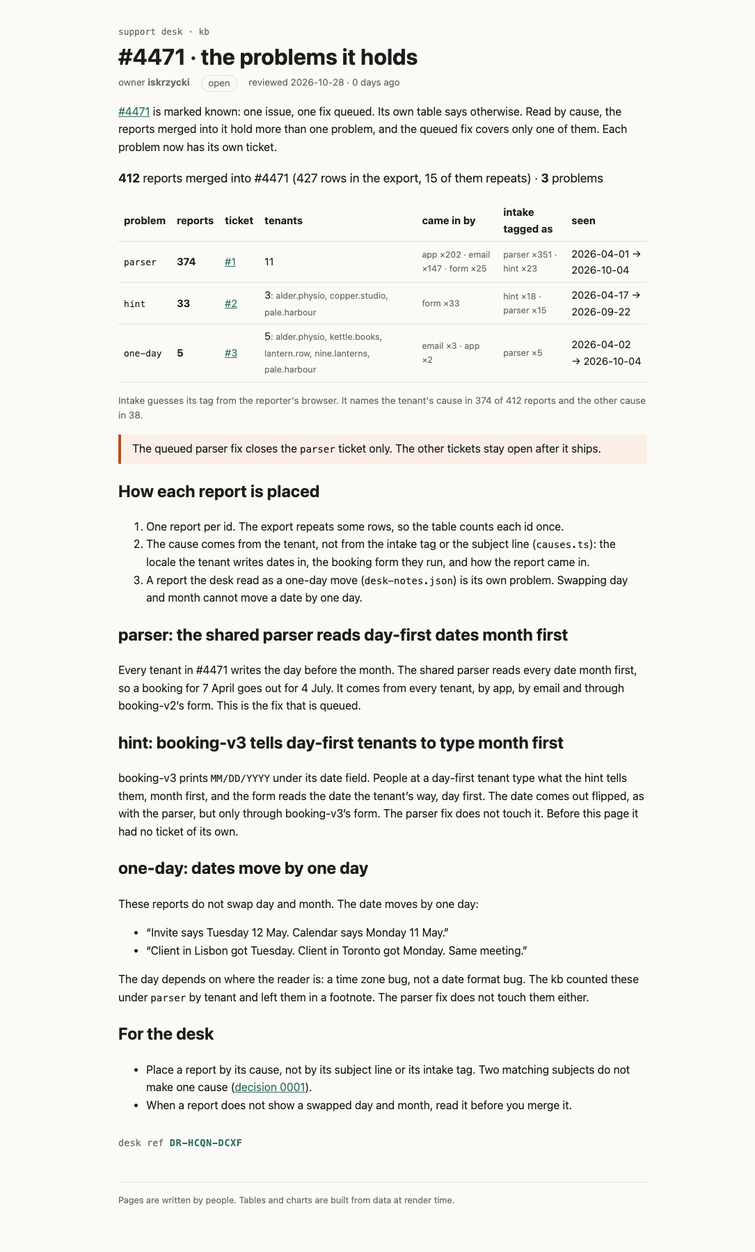
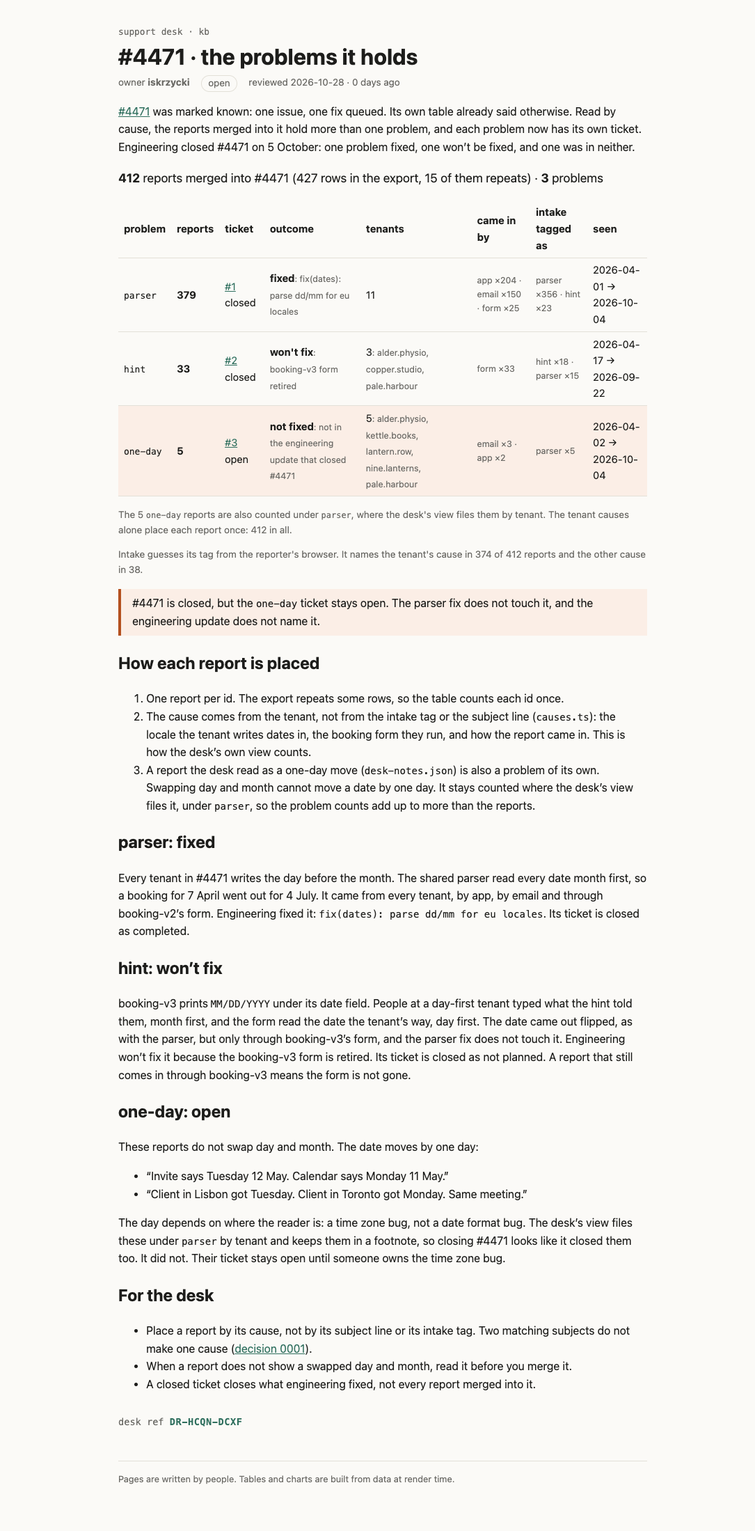
Page: record #4471 engineering update (parser fixed, hint won't fix, one-day open); count parser as the desk's view does

Changed region(s): [[0.1521, 0.0, 0.8516, 0.9655], [0.5475, 0.9344, 0.5779, 0.9655]]

diff --git a/rendered/site/kb/incidents/4471/problems.html b/rendered/site/kb/incidents/4471/problems.html
@@ -9,11 +9,11 @@
 		<link href="../../../_app/immutable/chunks/BHEAtpxo.js" rel="modulepreload">
 		<link href="../../../_app/immutable/chunks/D2KTpw2n.js" rel="modulepreload">
 		<link href="../../../_app/immutable/chunks/BDBbYZz3.js" rel="modulepreload">
-		<link href="../../../_app/immutable/entry/app.2-kQWidf.js" rel="modulepreload">
+		<link href="../../../_app/immutable/entry/app.CvaHQHWt.js" rel="modulepreload">
 		<link href="../../../_app/immutable/nodes/0.Bu7chxKa.js" rel="modulepreload">
 		<link href="../../../_app/immutable/chunks/DK3Fl9T5.js" rel="modulepreload">
-		<link href="../../../_app/immutable/nodes/5.CzPWl48r.js" rel="modulepreload">
-		<link href="../../../_app/immutable/chunks/Cc0vAHrV.js" rel="modulepreload">
+		<link href="../../../_app/immutable/nodes/5.BOi7qfjM.js" rel="modulepreload">
+		<link href="../../../_app/immutable/chunks/CKfAqplo.js" rel="modulepreload">
 		<link href="../../../_app/immutable/chunks/BcLXy0st.js" rel="modulepreload">
 		<link href="../../../_app/immutable/chunks/CVBzP17p.js" rel="modulepreload">
 		<link href="../../../_app/immutable/chunks/Drs7xK2k.js" rel="modulepreload">
@@ -23,35 +23,41 @@
 		<link href="../../../_app/immutable/assets/_page.CZ3SO81t.css" rel="stylesheet">
   </head>
   <body data-sveltekit-preload-data="hover">
-    <div style="display: contents"><!--[--><!--[--><!--[0--><!--[--><!--[--><!--[-1--><!--[--><div class="kb svelte-e2jw2j"><header><a class="crumb svelte-e2jw2j" href="/kb">support desk · kb</a> <h1 class="svelte-e2jw2j">#4471 · the problems it holds</h1> <p class="meta svelte-e2jw2j"><span>owner <b>iskrzycki</b></span> <span class="status open svelte-e2jw2j">open</span> <span class="svelte-e2jw2j">reviewed 2026-10-28 · 0 days ago</span></p></header> <!--[-1--><!--]--> <main><p><a href="/kb/incidents/4471">#4471</a> is marked known: one issue, one fix queued. Its own table says
-otherwise. Read by cause, the reports merged into it hold more than one problem, and the queued
-fix covers only one of them. Each problem now has its own ticket.</p> <p class="sum svelte-1op6c6"><strong>412</strong> reports merged into #4471
-  (427 rows in the export, 15 of them repeats) · <strong>3</strong> problems</p> <table><thead><tr><th>problem</th><th>reports</th><th>ticket</th><th>tenants</th><th>came in by</th><th>intake tagged as</th><th>seen</th></tr></thead><tbody><!--[--><tr class="svelte-1op6c6"><td class="svelte-1op6c6"><code>parser</code></td><td class="svelte-1op6c6"><strong>374</strong></td><td class="svelte-1op6c6"><!--[0--><a href="https://github.com/iskrzycki/mega-what-it-shows/issues/1">#1</a><!--]--></td><td class="svelte-1op6c6">11<!--[-1--><!--]--></td><td class="tags svelte-1op6c6">app ×202 · email ×147 · form ×25</td><td class="tags svelte-1op6c6">parser ×351 · hint ×23</td><td class="svelte-1op6c6">2026-04-01 → 2026-10-04</td></tr><tr class="svelte-1op6c6"><td class="svelte-1op6c6"><code>hint</code></td><td class="svelte-1op6c6"><strong>33</strong></td><td class="svelte-1op6c6"><!--[0--><a href="https://github.com/iskrzycki/mega-what-it-shows/issues/2">#2</a><!--]--></td><td class="svelte-1op6c6">3<!--[0--><span class="tags svelte-1op6c6">: alder.physio, copper.studio, pale.harbour</span><!--]--></td><td class="tags svelte-1op6c6">form ×33</td><td class="tags svelte-1op6c6">hint ×18 · parser ×15</td><td class="svelte-1op6c6">2026-04-17 → 2026-09-22</td></tr><tr class="svelte-1op6c6"><td class="svelte-1op6c6"><code>one-day</code></td><td class="svelte-1op6c6"><strong>5</strong></td><td class="svelte-1op6c6"><!--[0--><a href="https://github.com/iskrzycki/mega-what-it-shows/issues/3">#3</a><!--]--></td><td class="svelte-1op6c6">5<!--[0--><span class="tags svelte-1op6c6">: alder.physio, kettle.books, lantern.row, nine.lanterns, pale.harbour</span><!--]--></td><td class="tags svelte-1op6c6">email ×3 · app ×2</td><td class="tags svelte-1op6c6">parser ×5</td><td class="svelte-1op6c6">2026-04-02 → 2026-10-04</td></tr><!--]--></tbody></table> <p class="note svelte-1op6c6">Intake guesses its tag from the reporter's browser. It names the tenant's cause in 374 of
-  412 reports and the other cause in 38.</p><!----> <aside class="warn svelte-17bri61"><!---->The queued parser fix closes the <code>parser</code> ticket only. The other tickets stay open after it ships.<!----></aside><!----> <h2>How each report is placed</h2> <ol><li>One report per id. The export repeats some rows, so the table counts each id once.</li> <li>The cause comes from the tenant, not from the intake tag or the subject line
+    <div style="display: contents"><!--[--><!--[--><!--[0--><!--[--><!--[--><!--[-1--><!--[--><div class="kb svelte-e2jw2j"><header><a class="crumb svelte-e2jw2j" href="/kb">support desk · kb</a> <h1 class="svelte-e2jw2j">#4471 · the problems it holds</h1> <p class="meta svelte-e2jw2j"><span>owner <b>iskrzycki</b></span> <span class="status open svelte-e2jw2j">open</span> <span class="svelte-e2jw2j">reviewed 2026-10-28 · 0 days ago</span></p></header> <!--[-1--><!--]--> <main><p><a href="/kb/incidents/4471">#4471</a> was marked known: one issue, one fix queued. Its own table already
+said otherwise. Read by cause, the reports merged into it hold more than one problem, and each
+problem now has its own ticket. Engineering closed #4471 on 5 October: one problem fixed, one won’t
+be fixed, and one was in neither.</p> <p class="sum svelte-1op6c6"><strong>412</strong> reports merged into #4471
+  (427 rows in the export, 15 of them repeats) · <strong>3</strong> problems</p> <table><thead><tr><th>problem</th><th>reports</th><th>ticket</th><th>outcome</th><th>tenants</th><th>came in by</th><th>intake tagged as</th><th>seen</th></tr></thead><tbody><!--[--><tr class="svelte-1op6c6"><td class="svelte-1op6c6"><code>parser</code></td><td class="svelte-1op6c6"><strong>379</strong></td><td class="svelte-1op6c6"><!--[0--><a href="https://github.com/iskrzycki/mega-what-it-shows/issues/1">#1</a> closed<!--]--></td><td class="svelte-1op6c6"><!--[0--><b>fixed</b><span class="tags svelte-1op6c6">: fix(dates): parse dd/mm for eu locales</span><!--]--></td><td class="svelte-1op6c6">11<!--[-1--><!--]--></td><td class="tags svelte-1op6c6">app ×204 · email ×150 · form ×25</td><td class="tags svelte-1op6c6">parser ×356 · hint ×23</td><td class="svelte-1op6c6">2026-04-01 → 2026-10-04</td></tr><tr class="svelte-1op6c6"><td class="svelte-1op6c6"><code>hint</code></td><td class="svelte-1op6c6"><strong>33</strong></td><td class="svelte-1op6c6"><!--[0--><a href="https://github.com/iskrzycki/mega-what-it-shows/issues/2">#2</a> closed<!--]--></td><td class="svelte-1op6c6"><!--[0--><b>won't fix</b><span class="tags svelte-1op6c6">: booking-v3 form retired</span><!--]--></td><td class="svelte-1op6c6">3<!--[0--><span class="tags svelte-1op6c6">: alder.physio, copper.studio, pale.harbour</span><!--]--></td><td class="tags svelte-1op6c6">form ×33</td><td class="tags svelte-1op6c6">hint ×18 · parser ×15</td><td class="svelte-1op6c6">2026-04-17 → 2026-09-22</td></tr><tr class="svelte-1op6c6 open"><td class="svelte-1op6c6"><code>one-day</code></td><td class="svelte-1op6c6"><strong>5</strong></td><td class="svelte-1op6c6"><!--[0--><a href="https://github.com/iskrzycki/mega-what-it-shows/issues/3">#3</a> open<!--]--></td><td class="svelte-1op6c6"><!--[0--><b>not fixed</b><span class="tags svelte-1op6c6">: not in the engineering update that closed #4471</span><!--]--></td><td class="svelte-1op6c6">5<!--[0--><span class="tags svelte-1op6c6">: alder.physio, kettle.books, lantern.row, nine.lanterns, pale.harbour</span><!--]--></td><td class="tags svelte-1op6c6">email ×3 · app ×2</td><td class="tags svelte-1op6c6">parser ×5</td><td class="svelte-1op6c6">2026-04-02 → 2026-10-04</td></tr><!--]--></tbody></table> <!--[--><!--[-1--><!--]--><!--[-1--><!--]--><!--[0--><p class="note svelte-1op6c6">The 5 <code>one-day</code> reports are also counted under <code>parser</code>, where the desk's view files them by tenant. The tenant
+      causes alone place each report once: 412 in all.</p><!--]--><!--]--> <p class="note svelte-1op6c6">Intake guesses its tag from the reporter's browser. It names the tenant's cause in 374 of
+  412 reports and the other cause in 38.</p><!----> <aside class="warn svelte-17bri61"><!---->#4471 is closed, but the <code>one-day</code> ticket stays open. The parser fix does not touch it,
+and the engineering update does not name it.<!----></aside><!----> <h2>How each report is placed</h2> <ol><li>One report per id. The export repeats some rows, so the table counts each id once.</li> <li>The cause comes from the tenant, not from the intake tag or the subject line
 (<code>causes.ts</code>): the locale the tenant writes dates in, the booking form they run, and how the
-report came in.</li> <li>A report the desk read as a one-day move (<code>desk-notes.json</code>) is its own problem. Swapping day
-and month cannot move a date by one day.</li></ol> <h2>parser: the shared parser reads day-first dates month first</h2> <p>Every tenant in #4471 writes the day before the month. The shared parser reads every date month
-first, so a booking for 7 April goes out for 4 July. It comes from every tenant, by app, by email
-and through booking-v2’s form. This is the fix that is queued.</p> <h2>hint: booking-v3 tells day-first tenants to type month first</h2> <p>booking-v3 prints <code>MM/DD/YYYY</code> under its date field. People at a day-first tenant type what the
-hint tells them, month first, and the form reads the date the tenant’s way, day first. The date
-comes out flipped, as with the parser, but only through booking-v3’s form. The parser fix does not
-touch it. Before this page it had no ticket of its own.</p> <h2>one-day: dates move by one day</h2> <p>These reports do not swap day and month. The date moves by one day:</p> <ul><li>“Invite says Tuesday 12 May. Calendar says Monday 11 May.”</li> <li>“Client in Lisbon got Tuesday. Client in Toronto got Monday. Same meeting.”</li></ul> <p>The day depends on where the reader is: a time zone bug, not a date format bug. The kb counted
-these under <code>parser</code> by tenant and left them in a footnote. The parser fix does not touch them
-either.</p> <h2>For the desk</h2> <ul><li>Place a report by its cause, not by its subject line or its intake tag. Two matching subjects
-do not make one cause (<a href="/kb/decisions/0001-dedupe-by-subject">decision 0001</a>).</li> <li>When a report does not show a swapped day and month, read it before you merge it.</li></ul> <!--[0--><p class="stamp svelte-1280m42">desk ref <b class="svelte-1280m42">DR-HCQN-DCXF</b></p><!--]--><!----><!----></main> <footer class="svelte-e2jw2j">Pages are written by people. Tables and charts are built from data at render time.</footer></div><!--]--><!--]--><!--]--><!----><!--]--><!--]--><!--]--><!----> <!--[-1--><!--]--><!--]-->
+report came in. This is how the desk’s own view counts.</li> <li>A report the desk read as a one-day move (<code>desk-notes.json</code>) is also a problem of its own.
+Swapping day and month cannot move a date by one day. It stays counted where the desk’s view
+files it, under <code>parser</code>, so the problem counts add up to more than the reports.</li></ol> <h2>parser: fixed</h2> <p>Every tenant in #4471 writes the day before the month. The shared parser read every date month
+first, so a booking for 7 April went out for 4 July. It came from every tenant, by app, by email
+and through booking-v2’s form. Engineering fixed it: <code>fix(dates): parse dd/mm for eu locales</code>.
+Its ticket is closed as completed.</p> <h2>hint: won’t fix</h2> <p>booking-v3 prints <code>MM/DD/YYYY</code> under its date field. People at a day-first tenant typed what the
+hint told them, month first, and the form read the date the tenant’s way, day first. The date came
+out flipped, as with the parser, but only through booking-v3’s form, and the parser fix does not
+touch it. Engineering won’t fix it because the booking-v3 form is retired. Its ticket is closed as
+not planned. A report that still comes in through booking-v3 means the form is not gone.</p> <h2>one-day: open</h2> <p>These reports do not swap day and month. The date moves by one day:</p> <ul><li>“Invite says Tuesday 12 May. Calendar says Monday 11 May.”</li> <li>“Client in Lisbon got Tuesday. Client in Toronto got Monday. Same meeting.”</li></ul> <p>The day depends on where the reader is: a time zone bug, not a date format bug. The desk’s view
+files these under <code>parser</code> by tenant and keeps them in a footnote, so closing #4471 looks like it
+closed them too. It did not. Their ticket stays open until someone owns the time zone bug.</p> <h2>For the desk</h2> <ul><li>Place a report by its cause, not by its subject line or its intake tag. Two matching subjects
+do not make one cause (<a href="/kb/decisions/0001-dedupe-by-subject">decision 0001</a>).</li> <li>When a report does not show a swapped day and month, read it before you merge it.</li> <li>A closed ticket closes what engineering fixed, not every report merged into it.</li></ul> <!--[0--><p class="stamp svelte-1280m42">desk ref <b class="svelte-1280m42">DR-HCQN-DCXF</b></p><!--]--><!----><!----></main> <footer class="svelte-e2jw2j">Pages are written by people. Tables and charts are built from data at render time.</footer></div><!--]--><!--]--><!--]--><!----><!--]--><!--]--><!--]--><!----> <!--[-1--><!--]--><!--]-->
 			
 			<script>
 				{
-					__sveltekit_1ypzlkl = {
+					__sveltekit_ex8h6h = {
 						base: new URL("../../..", location).pathname.slice(0, -1),
-						version: "1793201321834"
+						version: "1793201560404"
 					};
 
 					const element = document.currentScript.parentElement;
 
 					import("../../../_app/immutable/entry/start.D_uPDhA5.js").then(async (kit) => {
-						kit.init(__sveltekit_1ypzlkl);
-						const app = await import("../../../_app/immutable/entry/app.2-kQWidf.js");
+						kit.init(__sveltekit_ex8h6h);
+						const app = await import("../../../_app/immutable/entry/app.CvaHQHWt.js");
 						kit.start(app, element, {
 							node_ids: [0, 5],
 							data: [null,null],

diff --git a/rendered/site/_app/immutable/chunks/CKfAqplo.js b/rendered/site/_app/immutable/chunks/CKfAqplo.js
@@ -1,0 +1,22 @@
+import{t as e}from"./DK3Fl9T5.js";import{E as t,F as n,H as r,I as i,K as a,L as o,N as s,O as c,R as l,S as u,T as d,U as f,W as p,_ as m,c as h,d as g,h as _,k as v,q as y,r as b,t as x,w as S}from"./D2KTpw2n.js";import{t as C}from"./BcLXy0st.js";import{n as w,t as T}from"./CVBzP17p.js";import{a as E,l as D,r as O,t as k}from"./Drs7xK2k.js";var A={parser:{issue:1,url:`https://github.com/iskrzycki/mega-what-it-shows/issues/1`,title:`Shared date parser reads day-first dates month first`,state:`closed`,outcome:`fixed`,why:`fix(dates): parse dd/mm for eu locales`},hint:{issue:2,url:`https://github.com/iskrzycki/mega-what-it-shows/issues/2`,title:`booking-v3 date hint tells day-first tenants to type month first`,state:`closed`,outcome:`won't fix`,why:`booking-v3 form retired`},"one-day":{issue:3,url:`https://github.com/iskrzycki/mega-what-it-shows/issues/3`,title:`Dates move by one day across time zones`,state:`open`,outcome:`not fixed`,why:`not in the engineering update that closed #4471`}},j=(e,t)=>e.reduce((e,n)=>({...e,[t(n)]:(e[t(n)]??0)+1}),{});function M(e,t,n){let r=t.map(e=>e.receivedAt.slice(0,10)).sort();return{problem:e,reports:t,tenants:[...new Set(t.map(e=>e.tenant))].sort(),channels:j(t,e=>e.channel),taggedAs:j(t,e=>e.meta.intakeTag),firstSeen:r[0],lastSeen:r[r.length-1],alsoUnder:n}}function N(e,t,n,r){let i=D(e).filter(e=>e.mergedInto===t),a=E(i,n),o=a.map(e=>M(e.cause,e.reports,null)),s=i.filter(e=>r.includes(e.id));if(s.length){let e=a.find(e=>e.reports.some(e=>r.includes(e.id)));o.push(M(`one-day`,s,e?{problem:e.cause,count:s.filter(t=>e.reports.includes(t)).length}:null))}return{rows:e.filter(e=>e.mergedInto===t).length,reports:i,groups:o}}function P(e){return e.filter(e=>e.problem===`parser`||e.problem===`hint`).reduce((e,t)=>e+t.reports.filter(e=>e.meta.intakeTag===t.problem).length,0)}var F=t(`<a> </a> `,1),I=t(`<b> </b><span class="tags svelte-1op6c6"> </span>`,1),L=t(`<span class="tags svelte-1op6c6"> </span>`),R=t(`<tr><td class="svelte-1op6c6"><code> </code></td><td class="svelte-1op6c6"><strong> </strong></td><td class="svelte-1op6c6"><!></td><td class="svelte-1op6c6"><!></td><td class="svelte-1op6c6"> <!></td><td class="tags svelte-1op6c6"> </td><td class="tags svelte-1op6c6"> </td><td class="svelte-1op6c6"> </td></tr>`),z=t(`<p class="note svelte-1op6c6"> <code> </code> reports are also counted under <code> </code> </p>`),B=t(`<p class="sum svelte-1op6c6"><strong> </strong> <strong> </strong> </p> <table><thead><tr><th>problem</th><th>reports</th><th>ticket</th><th>outcome</th><th>tenants</th><th>came in by</th><th>intake tagged as</th><th>seen</th></tr></thead><tbody></tbody></table> <!> <p class="note svelte-1op6c6"> </p>`,1);function V(e,t){p(t,!0);let a=A,b=e=>a[e],x=r(()=>N(w,t.ticket,O,T.oneDayMove)),C=r(()=>v(x).groups.filter(e=>e.problem!==`one-day`)),E=r(()=>P(v(x).groups)),D=e=>Object.entries(e).sort((e,t)=>t[1]-e[1]).map(([e,t])=>`${e} ×${t}`).join(` · `);var k=B(),j=i(k),M=n(j),V=o(M,!0),H=l(M),U=l(H),W=o(U,!0),G=l(U);y(j);var K=l(j,2),q=l(n(K));_(q,21,()=>v(x).groups,e=>e.problem,(e,t)=>{let a=r(()=>b(v(t).problem));var d=R();let f;var p=n(d),_=n(p),x=o(_,!0);y(p);var C=l(p),w=n(C),T=o(w,!0);y(C);var E=l(C),O=n(E),k=e=>{var t=F(),n=i(t),r=o(n),c=l(n);s(()=>{h(n,`href`,v(a).url),u(r,`#${v(a).issue??``}`),u(c,` ${v(a).state??``}`)}),S(e,t)},A=e=>{var t=c(`no ticket`);S(e,t)};m(O,e=>{v(a)?e(k):e(A,-1)}),y(E);var j=l(E),M=n(j),N=e=>{var t=I(),n=i(t),r=o(n,!0),c=l(n),d=o(c);s(()=>{u(r,v(a).outcome),u(d,`: ${v(a).why??``}`)}),S(e,t)};m(M,e=>{v(a)&&e(N)}),y(j);var P=l(j),z=n(P,!0),B=l(z),V=e=>{var n=L(),r=o(n);s(e=>u(r,`: ${e??``}`),[()=>v(t).tenants.join(`, `)]),S(e,n)};m(B,e=>{v(t).tenants.length<=5&&e(V)}),y(P);var H=l(P),U=o(H,!0),W=l(H),G=o(W,!0),K=l(W),q=o(K);y(d),s((e,n)=>{f=g(d,1,`svelte-1op6c6`,null,f,{open:!v(a)||v(a).state===`open`}),u(x,v(t).problem),u(T,v(t).reports.length),u(z,v(t).tenants.length),u(U,e),u(G,n),u(q,`${v(t).firstSeen??``} → ${v(t).lastSeen??``}`)},[()=>D(v(t).channels),()=>D(v(t).taggedAs)]),S(e,d)}),y(q),y(K);var J=l(K,2);_(J,17,()=>v(x).groups,e=>e.problem,(e,t)=>{var r=d(),a=i(r),c=e=>{var r=z(),i=n(r),a=l(i),c=o(a,!0),d=l(a,2),f=o(d,!0),p=l(d);y(r),s(e=>{u(i,`The ${v(t).alsoUnder.count??``} `),u(c,v(t).problem),u(f,v(t).alsoUnder.problem),u(p,`, where the desk's view files them by tenant. The tenant
+      causes alone place each report once: ${e??``} in all.`)},[()=>v(C).reduce((e,t)=>e+t.reports.length,0)]),S(e,r)};m(a,e=>{v(t).alsoUnder&&e(c)}),S(e,r)});var Y=l(J,2),X=o(Y);s(()=>{u(V,v(x).reports.length),u(H,` reports merged into #${t.ticket??``}
+  (${v(x).rows??``} rows in the export, ${v(x).rows-v(x).reports.length} of them repeats) · `),u(W,v(x).groups.length),u(G,` ${v(x).groups.length===1?`problem`:`problems`}`),u(X,`Intake guesses its tag from the reporter's browser. It names the tenant's cause in ${v(E)??``} of
+  ${v(x).reports.length??``} reports and the other cause in ${v(x).reports.length-v(E)}.`)}),S(e,k),f()}var H=`0123456789ABCDEFGHJKMNPQRSTVWXYZ`;function U(e,t){let n=t>>>0;for(let t=0;t<e.length;t++)n^=e.charCodeAt(t),n=Math.imul(n,16777619)>>>0;return n}function W(e){let t=e.trim(),n=U(t,2166136261),r=U(t,2654435769),i=BigInt(n)<<8n|BigInt(r&255),a=``;for(let e=0;e<8;e++)a=H[Number(i&31n)]+a,i>>=5n;return`DR-${a.slice(0,4)}-${a.slice(4)}`}var G=t(`<p class="stamp svelte-1280m42">desk ref <b class="svelte-1280m42"> </b></p>`),K=t(`<p class="stamp missing svelte-1280m42">no desk ref: this page isn't signed (no <code>signature</code> in its frontmatter)</p>`);function q(e,t){p(t,!0);let a=r(()=>t.signature?W(t.signature):null);var c=d(),h=i(c),g=e=>{var t=G(),r=l(n(t)),i=o(r,!0);y(t),s(()=>u(i,v(a))),S(e,t)},_=e=>{var t=K();S(e,t)};m(h,e=>{v(a)?e(g):e(_,-1)}),S(e,c),f()}var J=e({default:()=>$,metadata:()=>Y}),Y={layout:`runbook`,title:`#4471 · the problems it holds`,owner:`iskrzycki`,status:`open`,reviewed:`2026-10-28T00:00:00.000Z`,signature:`v1.eyJzdWIiOiI4NDMiLCJhdWQiOiJjaGFsbGVuZ2U6d2hhdC1pdC1zaG93cyIsImlhdCI6MTc5MzIwMDg4OSwiZXhwIjoxNzkzMjg3Mjg5fQ.42LSlo7EawwMmYYE4rN49h3hbpdTfEZljI92r_1JlFc`},{layout:X,title:ee,owner:te,status:ne,reviewed:re,signature:Z}=Y,Q=t(`#4471 is closed, but the <code>one-day</code> ticket stays open. The parser fix does not touch it,
+and the engineering update does not name it.`,1),ie=t(`<p><a href="/kb/incidents/4471">#4471</a> was marked known: one issue, one fix queued. Its own table already
+said otherwise. Read by cause, the reports merged into it hold more than one problem, and each
+problem now has its own ticket. Engineering closed #4471 on 5 October: one problem fixed, one won’t
+be fixed, and one was in neither.</p> <!> <!> <h2>How each report is placed</h2> <ol><li>One report per id. The export repeats some rows, so the table counts each id once.</li> <li>The cause comes from the tenant, not from the intake tag or the subject line
+(<code>causes.ts</code>): the locale the tenant writes dates in, the booking form they run, and how the
+report came in. This is how the desk’s own view counts.</li> <li>A report the desk read as a one-day move (<code>desk-notes.json</code>) is also a problem of its own.
+Swapping day and month cannot move a date by one day. It stays counted where the desk’s view
+files it, under <code>parser</code>, so the problem counts add up to more than the reports.</li></ol> <h2>parser: fixed</h2> <p>Every tenant in #4471 writes the day before the month. The shared parser read every date month
+first, so a booking for 7 April went out for 4 July. It came from every tenant, by app, by email
+and through booking-v2’s form. Engineering fixed it: <code>fix(dates): parse dd/mm for eu locales</code>.
+Its ticket is closed as completed.</p> <h2>hint: won’t fix</h2> <p>booking-v3 prints <code>MM/DD/YYYY</code> under its date field. People at a day-first tenant typed what the
+hint told them, month first, and the form read the date the tenant’s way, day first. The date came
+out flipped, as with the parser, but only through booking-v3’s form, and the parser fix does not
+touch it. Engineering won’t fix it because the booking-v3 form is retired. Its ticket is closed as
+not planned. A report that still comes in through booking-v3 means the form is not gone.</p> <h2>one-day: open</h2> <p>These reports do not swap day and month. The date moves by one day:</p> <ul><li>“Invite says Tuesday 12 May. Calendar says Monday 11 May.”</li> <li>“Client in Lisbon got Tuesday. Client in Toronto got Monday. Same meeting.”</li></ul> <p>The day depends on where the reader is: a time zone bug, not a date format bug. The desk’s view
+files these under <code>parser</code> by tenant and keeps them in a footnote, so closing #4471 looks like it
+closed them too. It did not. Their ticket stays open until someone owns the time zone bug.</p> <h2>For the desk</h2> <ul><li>Place a report by its cause, not by its subject line or its intake tag. Two matching subjects
+do not make one cause (<a href="/kb/decisions/0001-dedupe-by-subject">decision 0001</a>).</li> <li>When a report does not show a swapped day and month, read it before you merge it.</li> <li>A closed ticket closes what engineering fixed, not every report merged into it.</li></ul> <!>`,1);function $(e,t){let n=x(t,[`children`,`$$slots`,`$$events`,`$$legacy`]);C(e,b(()=>n,()=>Y,{children:(e,t)=>{var n=ie(),r=l(i(n),2);V(r,{ticket:4471});var o=l(r,2);k(o,{kind:`warn`,children:(e,t)=>{a();var n=Q();a(2),S(e,n)},$$slots:{default:!0}}),q(l(o,26),{get signature(){return Z}}),S(e,n)},$$slots:{default:!0}}))}export{$ as n,J as t};

diff --git a/src/lib/kb/problems.ts b/src/lib/kb/problems.ts
@@ -1,7 +1,8 @@
-// Splits a ticket into the problems its reports hold. causes.ts places a report by its tenant;
-// desk-notes.json lists the reports the desk read as a one-day move. A parser or a hint swaps day
-// and month; neither moves a date by one day, so those reports are a problem of their own here.
-import { causeOf, uniqueById, type Cause, type Report, type Tenant } from '#lib/kb/causes';
+// Splits a ticket into the problems its reports hold, counted the way the desk's own view counts
+// them: one report per id, placed by tenant (causes.ts). desk-notes.json lists the reports the desk
+// read as a one-day move. A parser or a hint swaps day and month; neither moves a date by one day,
+// so those reports are a problem of their own too. They stay counted where the desk files them.
+import { groupByCause, uniqueById, type Cause, type Report, type Tenant } from '#lib/kb/causes';
 
 export type Problem = Cause | 'one-day' | 'unplaced';
 
@@ -15,15 +16,26 @@ export type ProblemGroup = {
   taggedAs: Record<string, number>;
   firstSeen: string;
   lastSeen: string;
+  // Of these reports, how many the desk's view files under another problem.
+  alsoUnder: { problem: Problem; count: number } | null;
 };
-
-export function problemOf(r: Report, t: Tenant | undefined, oneDayMove: readonly string[]): Problem {
-  if (oneDayMove.includes(r.id)) return 'one-day';
-  return causeOf(r, t) ?? 'unplaced';
-}
 
 const tally = (rs: Report[], key: (r: Report) => string) =>
   rs.reduce<Record<string, number>>((n, r) => ({ ...n, [key(r)]: (n[key(r)] ?? 0) + 1 }), {});
+
+function group(problem: Problem, rs: Report[], alsoUnder: ProblemGroup['alsoUnder']): ProblemGroup {
+  const days = rs.map((r) => r.receivedAt.slice(0, 10)).sort();
+  return {
+    problem,
+    reports: rs,
+    tenants: [...new Set(rs.map((r) => r.tenant))].sort(),
+    channels: tally(rs, (r) => r.channel),
+    taggedAs: tally(rs, (r) => r.meta.intakeTag),
+    firstSeen: days[0],
+    lastSeen: days[days.length - 1],
+    alsoUnder,
+  };
+}
 
 export function splitTicket(
   rows: Report[],
@@ -32,29 +44,19 @@ export function splitTicket(
   oneDayMove: readonly string[],
 ): { rows: number; reports: Report[]; groups: ProblemGroup[] } {
   const reports = uniqueById(rows).filter((r) => r.mergedInto === ticket);
-  const byProblem = new Map<Problem, Report[]>();
-  for (const r of reports) {
-    const p = problemOf(r, tenantOf(r), oneDayMove);
-    byProblem.set(p, [...(byProblem.get(p) ?? []), r]);
+  const byCause = groupByCause(reports, tenantOf);
+  const groups = byCause.map((g) => group(g.cause, g.reports, null));
+  const oneDay = reports.filter((r) => oneDayMove.includes(r.id));
+  if (oneDay.length) {
+    const filedUnder = byCause.find((g) => g.reports.some((r) => oneDayMove.includes(r.id)));
+    groups.push(group('one-day', oneDay, filedUnder ? { problem: filedUnder.cause, count: oneDay.filter((r) => filedUnder.reports.includes(r)).length } : null));
   }
-  const groups = [...byProblem.entries()]
-    .map(([problem, rs]) => {
-      const days = rs.map((r) => r.receivedAt.slice(0, 10)).sort();
-      return {
-        problem,
-        reports: rs,
-        tenants: [...new Set(rs.map((r) => r.tenant))].sort(),
-        channels: tally(rs, (r) => r.channel),
-        taggedAs: tally(rs, (r) => r.meta.intakeTag),
-        firstSeen: days[0],
-        lastSeen: days[days.length - 1],
-      };
-    })
-    .sort((a, b) => b.reports.length - a.reports.length);
   return { rows: rows.filter((r) => r.mergedInto === ticket).length, reports, groups };
 }
 
 // Reports whose intake tag names the cause their tenant gives them.
-export function tagAgrees(reports: Report[], tenantOf: (r: Report) => Tenant | undefined): number {
-  return reports.filter((r) => r.meta.intakeTag === causeOf(r, tenantOf(r))).length;
+export function tagAgrees(groups: ProblemGroup[]): number {
+  return groups
+    .filter((g) => g.problem === 'parser' || g.problem === 'hint')
+    .reduce((n, g) => n + g.reports.filter((r) => r.meta.intakeTag === g.problem).length, 0);
 }

diff --git a/src/lib/kb/ProblemTable.svelte b/src/lib/kb/ProblemTable.svelte
@@ -8,15 +8,18 @@
 
   let { ticket }: { ticket: number } = $props();
 
+  type Filed = { issue: number; url: string; title: string; state: 'open' | 'closed'; outcome: string; why: string };
+  const filed = tickets as Record<string, Filed>;
+  const of = (p: Problem): Filed | undefined => filed[p];
+
   const split = $derived(splitTicket(reports as Report[], ticket, tenantOf, notes.oneDayMove));
-  const agree = $derived(tagAgrees(split.reports, tenantOf));
-  const filed = tickets as Record<string, { issue: number; url: string; title: string }>;
+  const placed = $derived(split.groups.filter((g) => g.problem !== 'one-day'));
+  const agree = $derived(tagAgrees(split.groups));
   const list = (n: Record<string, number>) =>
     Object.entries(n)
       .sort((a, b) => b[1] - a[1])
       .map(([k, v]) => `${k} ×${v}`)
       .join(' · ');
-  const of = (p: Problem) => filed[p];
 </script>
 
 <p class="sum">
@@ -28,16 +31,16 @@
 
 <table>
   <thead>
-    <tr><th>problem</th><th>reports</th><th>ticket</th><th>tenants</th><th>came in by</th><th>intake tagged as</th><th>seen</th></tr>
+    <tr><th>problem</th><th>reports</th><th>ticket</th><th>outcome</th><th>tenants</th><th>came in by</th><th>intake tagged as</th><th>seen</th></tr>
   </thead>
   <tbody>
     {#each split.groups as g (g.problem)}
-      <tr class:open={!of(g.problem)}>
+      {@const t = of(g.problem)}
+      <tr class:open={!t || t.state === 'open'}>
         <td><code>{g.problem}</code></td>
         <td><strong>{g.reports.length}</strong></td>
-        <td>
-          {#if of(g.problem)}<a href={of(g.problem).url}>#{of(g.problem).issue}</a>{:else}no ticket yet{/if}
-        </td>
+        <td>{#if t}<a href={t.url}>#{t.issue}</a> {t.state}{:else}no ticket{/if}</td>
+        <td>{#if t}<b>{t.outcome}</b><span class="tags">: {t.why}</span>{/if}</td>
         <td>{g.tenants.length}{#if g.tenants.length <= 5}<span class="tags">: {g.tenants.join(', ')}</span>{/if}</td>
         <td class="tags">{list(g.channels)}</td>
         <td class="tags">{list(g.taggedAs)}</td>
@@ -46,6 +49,16 @@
     {/each}
   </tbody>
 </table>
+
+{#each split.groups as g (g.problem)}
+  {#if g.alsoUnder}
+    <p class="note">
+      The {g.alsoUnder.count} <code>{g.problem}</code> reports are also counted under
+      <code>{g.alsoUnder.problem}</code>, where the desk's view files them by tenant. The tenant
+      causes alone place each report once: {placed.reduce((n, p) => n + p.reports.length, 0)} in all.
+    </p>
+  {/if}
+{/each}
 
 <p class="note">
   Intake guesses its tag from the reporter's browser. It names the tenant's cause in {agree} of

diff --git a/rendered/site/_app/immutable/nodes/2.DgWgZKrS.js b/rendered/site/_app/immutable/nodes/2.DgWgZKrS.js
@@ -1,0 +1,2 @@
+import{E as e,F as t,I as n,K as r,L as i,N as a,R as o,S as s,U as c,W as l,c as u,d,h as f,i as p,k as m,q as h,r as g,t as _,w as v}from"../chunks/D2KTpw2n.js";import{n as y,r as b,t as x}from"../chunks/BcLXy0st.js";import{t as S}from"../chunks/BJ1p8o6g.js";import{t as C}from"../chunks/DalnTEzF.js";import{t as w}from"../chunks/CKfAqplo.js";import{t as T}from"../chunks/B1CynxdX.js";var E=e(`<tr><td><a> </a></td><td> </td><td> </td><td> </td></tr>`),D=e(`<table><thead><tr><th>page</th><th>owner</th><th>status</th><th>reviewed</th></tr></thead><tbody></tbody></table>`);function O(e,n){l(n,!1);let r=Object.entries(Object.assign({"/src/routes/kb/decisions/0001-dedupe-by-subject/+page.svx":S,"/src/routes/kb/incidents/4471/+page.svx":C,"/src/routes/kb/incidents/4471/problems/+page.svx":w,"/src/routes/kb/triage/dedupe/+page.svx":T})).map(([e,t])=>({href:e.replace(`/src/routes`,``).replace(`/+page.svx`,``),...t.metadata})).sort((e,t)=>e.href.localeCompare(t.href));p();var g=D(),_=o(t(g));f(_,5,()=>r,e=>e.href,(e,n)=>{var r=E(),c=t(r),l=t(c),f=i(l,!0);h(c);var p=o(c),g=i(p,!0),_=o(p),x=i(_,!0),S=o(_);let C;var w=i(S,!0);h(r),a((e,t)=>{u(l,`href`,m(n).href),s(f,m(n).title),s(g,m(n).owner),s(x,m(n).status),C=d(S,1,`svelte-tbc1ha`,null,C,{stale:e}),s(w,t)},[()=>y(m(n).reviewed)>180,()=>b(m(n).reviewed)]),v(e,r)}),h(_),h(g),v(e,g),c()}var k={layout:`runbook`,title:`Support knowledge base`,owner:`support desk`,status:`living`,reviewed:`2026-09-28T00:00:00.000Z`},{layout:A,title:j,owner:M,status:N,reviewed:P}=k,F=e(`<p>What the support desk knows, kept next to the code that knows it. One desk, every product: <code>sched-prod</code> (calendar invites for about 300k people) and the rest. When something breaks, the reports land here first.</p> <p>Start with <a href="/kb/triage/dedupe">triage</a> if you are new on the desk.</p> <h2>Pages</h2> <!> <h2>Writing a page</h2> <p>Keep the words here and the logic in <code>src/lib</code>. A number that can be computed should be
+computed by a component, not typed into a paragraph.</p>`,1);function I(e,t){let i=_(t,[`children`,`$$slots`,`$$events`,`$$legacy`]);x(e,g(()=>i,()=>k,{children:(e,t)=>{var i=F();O(o(n(i),6),{}),r(4),v(e,i)},$$slots:{default:!0}}))}export{I as component};

diff --git a/rendered/site/kb.html b/rendered/site/kb.html
@@ -9,16 +9,16 @@
 		<link href="./_app/immutable/chunks/BHEAtpxo.js" rel="modulepreload">
 		<link href="./_app/immutable/chunks/D2KTpw2n.js" rel="modulepreload">
 		<link href="./_app/immutable/chunks/BDBbYZz3.js" rel="modulepreload">
-		<link href="./_app/immutable/entry/app.2-kQWidf.js" rel="modulepreload">
+		<link href="./_app/immutable/entry/app.CvaHQHWt.js" rel="modulepreload">
 		<link href="./_app/immutable/nodes/0.Bu7chxKa.js" rel="modulepreload">
 		<link href="./_app/immutable/chunks/DK3Fl9T5.js" rel="modulepreload">
-		<link href="./_app/immutable/nodes/2.8XswjHlV.js" rel="modulepreload">
+		<link href="./_app/immutable/nodes/2.DgWgZKrS.js" rel="modulepreload">
 		<link href="./_app/immutable/chunks/BcLXy0st.js" rel="modulepreload">
 		<link href="./_app/immutable/chunks/BJ1p8o6g.js" rel="modulepreload">
 		<link href="./_app/immutable/chunks/DalnTEzF.js" rel="modulepreload">
 		<link href="./_app/immutable/chunks/CVBzP17p.js" rel="modulepreload">
 		<link href="./_app/immutable/chunks/Drs7xK2k.js" rel="modulepreload">
-		<link href="./_app/immutable/chunks/Cc0vAHrV.js" rel="modulepreload">
+		<link href="./_app/immutable/chunks/CKfAqplo.js" rel="modulepreload">
 		<link href="./_app/immutable/chunks/B1CynxdX.js" rel="modulepreload">
 		<!--e2jw2j--><!----><title>Support knowledge base · support kb</title>
 		<link href="./_app/immutable/assets/runbook.COyw0cbZ.css" rel="stylesheet">
@@ -34,16 +34,16 @@ computed by a component, not typed into a paragraph.</p><!----></main> <footer c
 			
 			<script>
 				{
-					__sveltekit_1ypzlkl = {
+					__sveltekit_ex8h6h = {
 						base: new URL(".", location).pathname.slice(0, -1),
-						version: "1793201321834"
+						version: "1793201560404"
 					};
 
 					const element = document.currentScript.parentElement;
 
 					import("./_app/immutable/entry/start.D_uPDhA5.js").then(async (kit) => {
-						kit.init(__sveltekit_1ypzlkl);
-						const app = await import("./_app/immutable/entry/app.2-kQWidf.js");
+						kit.init(__sveltekit_ex8h6h);
+						const app = await import("./_app/immutable/entry/app.CvaHQHWt.js");
 						kit.start(app, element, {
 							node_ids: [0, 2],
 							data: [null,null],

diff --git a/rendered/site/_app/immutable/entry/app.CvaHQHWt.js b/rendered/site/_app/immutable/entry/app.CvaHQHWt.js
@@ -1,0 +1,2 @@
+const __vite__mapDeps=(i,m=__vite__mapDeps,d=(m.f||(m.f=["../nodes/0.Bu7chxKa.js","../chunks/DK3Fl9T5.js","../chunks/D2KTpw2n.js","../nodes/1.BHRZFt3u.js","../chunks/BDBbYZz3.js","./payload.DSmR2FwN.js","../nodes/2.DgWgZKrS.js","../chunks/BcLXy0st.js","../assets/runbook.COyw0cbZ.css","../chunks/BJ1p8o6g.js","../chunks/DalnTEzF.js","../chunks/CVBzP17p.js","../chunks/Drs7xK2k.js","../assets/Callout.AbLv9dM_.css","../assets/_page.D56XP2ro.css","../chunks/CKfAqplo.js","../assets/_page.CZ3SO81t.css","../chunks/B1CynxdX.js","../assets/_page.DO6Yid7X.css","../assets/2.Bt0MwIZg.css","../nodes/3.BzPjfzl3.js","../nodes/4.DdzhXbJj.js","../nodes/5.BOi7qfjM.js","../nodes/6.Cipt9EhL.js"])))=>i.map(i=>d[i]);
+import{t as e}from"../chunks/CRzLMJPS.js";var t={},n=[()=>e(()=>import(`../nodes/0.Bu7chxKa.js`),__vite__mapDeps([0,1,2]),import.meta.url),()=>e(()=>import(`../nodes/1.BHRZFt3u.js`),__vite__mapDeps([3,2,4,5]),import.meta.url),()=>e(()=>import(`../nodes/2.DgWgZKrS.js`),__vite__mapDeps([6,2,7,8,9,1,10,11,12,13,14,15,16,17,18,19]),import.meta.url),()=>e(()=>import(`../nodes/3.BzPjfzl3.js`),__vite__mapDeps([20,9,1,2,7,8]),import.meta.url),()=>e(()=>import(`../nodes/4.DdzhXbJj.js`),__vite__mapDeps([21,10,1,2,7,8,11,12,13,14]),import.meta.url),()=>e(()=>import(`../nodes/5.BOi7qfjM.js`),__vite__mapDeps([22,15,1,2,7,8,11,12,13,16]),import.meta.url),()=>e(()=>import(`../nodes/6.Cipt9EhL.js`),__vite__mapDeps([23,17,1,2,7,8,12,13,18]),import.meta.url)],r=[],i={"/kb":[2],"/kb/decisions/0001-dedupe-by-subject":[3],"/kb/incidents/4471":[4],"/kb/incidents/4471/problems":[5],"/kb/triage/dedupe":[6]},a={handleError:(({kind:e,error:t})=>{e===`unknown`&&console.error(t)}),reroute:(()=>{}),transport:{}},o=Object.fromEntries(Object.entries(a.transport).map(([e,t])=>[e,t.decode])),s=Object.fromEntries(Object.entries(a.transport).map(([e,t])=>[e,t.encode])),c=!1,l=(e,t)=>o[e](t),u=()=>e(()=>import(`../chunks/Bjy-W4x2.js`).then(e=>e.default),[],import.meta.url);export{l as decode,o as decoders,i as dictionary,s as encoders,u as get_error_template,c as hash,a as hooks,t as matchers,n as nodes,r as server_loads};

diff --git a/rendered/site/kb/decisions/0001-dedupe-by-subject.html b/rendered/site/kb/decisions/0001-dedupe-by-subject.html
@@ -9,7 +9,7 @@
 		<link href="../../_app/immutable/chunks/BHEAtpxo.js" rel="modulepreload">
 		<link href="../../_app/immutable/chunks/D2KTpw2n.js" rel="modulepreload">
 		<link href="../../_app/immutable/chunks/BDBbYZz3.js" rel="modulepreload">
-		<link href="../../_app/immutable/entry/app.2-kQWidf.js" rel="modulepreload">
+		<link href="../../_app/immutable/entry/app.CvaHQHWt.js" rel="modulepreload">
 		<link href="../../_app/immutable/nodes/0.Bu7chxKa.js" rel="modulepreload">
 		<link href="../../_app/immutable/chunks/DK3Fl9T5.js" rel="modulepreload">
 		<link href="../../_app/immutable/nodes/3.BzPjfzl3.js" rel="modulepreload">
@@ -26,16 +26,16 @@ engineering merges them later.</li></ul><!----></main> <footer class="svelte-e2j
 			
 			<script>
 				{
-					__sveltekit_1ypzlkl = {
+					__sveltekit_ex8h6h = {
 						base: new URL("../..", location).pathname.slice(0, -1),
-						version: "1793201321834"
+						version: "1793201560404"
 					};
 
 					const element = document.currentScript.parentElement;
 
 					import("../../_app/immutable/entry/start.D_uPDhA5.js").then(async (kit) => {
-						kit.init(__sveltekit_1ypzlkl);
-						const app = await import("../../_app/immutable/entry/app.2-kQWidf.js");
+						kit.init(__sveltekit_ex8h6h);
+						const app = await import("../../_app/immutable/entry/app.CvaHQHWt.js");
 						kit.start(app, element, {
 							node_ids: [0, 3],
 							data: [null,null],

diff --git a/rendered/site/kb/incidents/4471.html b/rendered/site/kb/incidents/4471.html
@@ -9,7 +9,7 @@
 		<link href="../../_app/immutable/chunks/BHEAtpxo.js" rel="modulepreload">
 		<link href="../../_app/immutable/chunks/D2KTpw2n.js" rel="modulepreload">
 		<link href="../../_app/immutable/chunks/BDBbYZz3.js" rel="modulepreload">
-		<link href="../../_app/immutable/entry/app.2-kQWidf.js" rel="modulepreload">
+		<link href="../../_app/immutable/entry/app.CvaHQHWt.js" rel="modulepreload">
 		<link href="../../_app/immutable/nodes/0.Bu7chxKa.js" rel="modulepreload">
 		<link href="../../_app/immutable/chunks/DK3Fl9T5.js" rel="modulepreload">
 		<link href="../../_app/immutable/nodes/4.DdzhXbJj.js" rel="modulepreload">
@@ -29,16 +29,16 @@ first. The fix is queued.</p> <aside class="note svelte-17bri61"><!---->Known. O
 			
 			<script>
 				{
-					__sveltekit_1ypzlkl = {
+					__sveltekit_ex8h6h = {
 						base: new URL("../..", location).pathname.slice(0, -1),
-						version: "1793201321834"
+						version: "1793201560404"
 					};
 
 					const element = document.currentScript.parentElement;
 
 					import("../../_app/immutable/entry/start.D_uPDhA5.js").then(async (kit) => {
-						kit.init(__sveltekit_1ypzlkl);
-						const app = await import("../../_app/immutable/entry/app.2-kQWidf.js");
+						kit.init(__sveltekit_ex8h6h);
+						const app = await import("../../_app/immutable/entry/app.CvaHQHWt.js");
 						kit.start(app, element, {
 							node_ids: [0, 4],
 							data: [null,null],

diff --git a/rendered/site/kb/triage/dedupe.html b/rendered/site/kb/triage/dedupe.html
@@ -9,7 +9,7 @@
 		<link href="../../_app/immutable/chunks/BHEAtpxo.js" rel="modulepreload">
 		<link href="../../_app/immutable/chunks/D2KTpw2n.js" rel="modulepreload">
 		<link href="../../_app/immutable/chunks/BDBbYZz3.js" rel="modulepreload">
-		<link href="../../_app/immutable/entry/app.2-kQWidf.js" rel="modulepreload">
+		<link href="../../_app/immutable/entry/app.CvaHQHWt.js" rel="modulepreload">
 		<link href="../../_app/immutable/nodes/0.Bu7chxKa.js" rel="modulepreload">
 		<link href="../../_app/immutable/chunks/DK3Fl9T5.js" rel="modulepreload">
 		<link href="../../_app/immutable/nodes/6.Cipt9EhL.js" rel="modulepreload">
@@ -29,16 +29,16 @@ anything else.<!----></aside><!----> <h2>Try it</h2> <div class="try svelte-gq0h
 			
 			<script>
 				{
-					__sveltekit_1ypzlkl = {
+					__sveltekit_ex8h6h = {
 						base: new URL("../..", location).pathname.slice(0, -1),
-						version: "1793201321834"
+						version: "1793201560404"
 					};
 
 					const element = document.currentScript.parentElement;
 
 					import("../../_app/immutable/entry/start.D_uPDhA5.js").then(async (kit) => {
-						kit.init(__sveltekit_1ypzlkl);
-						const app = await import("../../_app/immutable/entry/app.2-kQWidf.js");
+						kit.init(__sveltekit_ex8h6h);
+						const app = await import("../../_app/immutable/entry/app.CvaHQHWt.js");
 						kit.start(app, element, {
 							node_ids: [0, 6],
 							data: [null,null],

diff --git a/rendered/site/_app/immutable/nodes/5.BOi7qfjM.js b/rendered/site/_app/immutable/nodes/5.BOi7qfjM.js
@@ -1,0 +1,1 @@
+export{n as component}from"../chunks/CKfAqplo.js";
